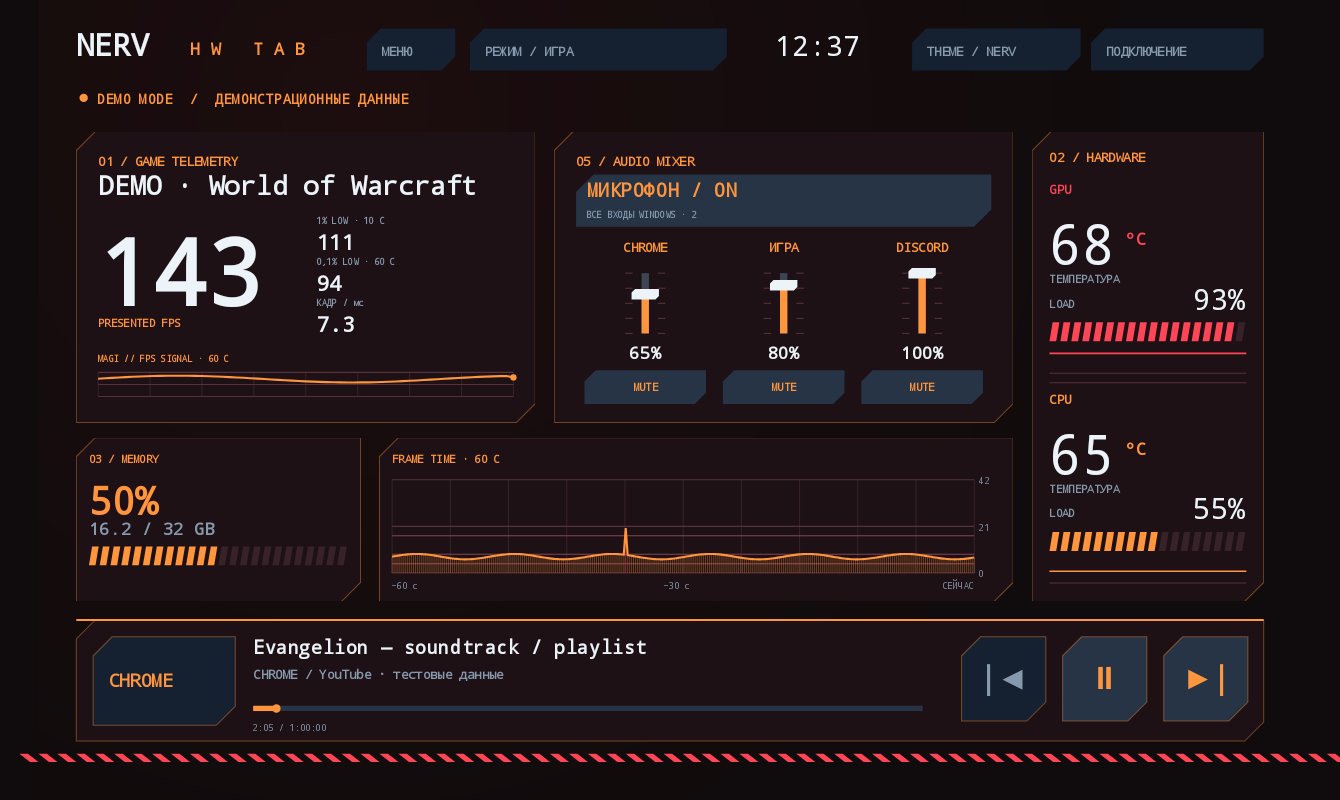
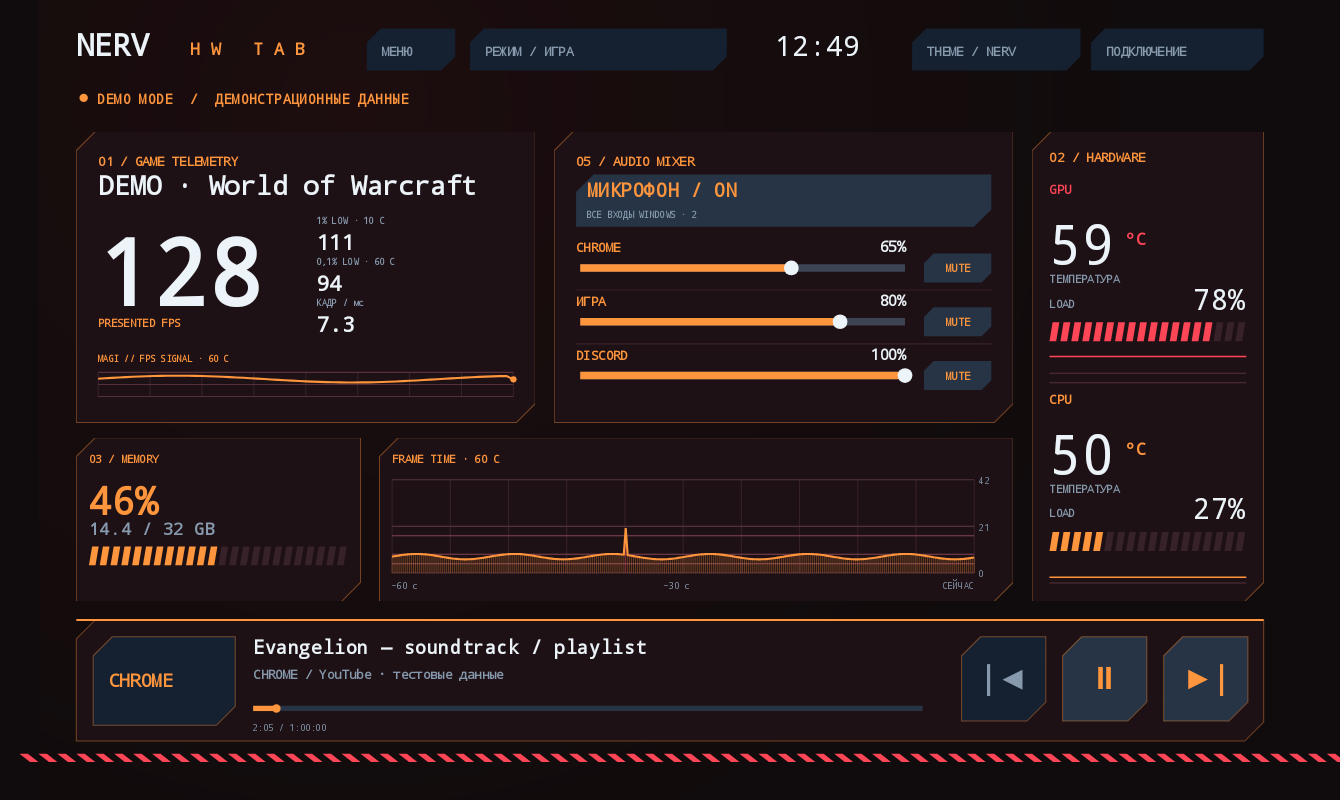
Use horizontal volume sliders in the in-game mixer
* Use horizontal app volume sliders with percentage and mute in each mixer row

* Keep app labels and percentages separated in narrow mixer cards

* Refresh verified horizontal audio mixer screenshots [skip ci]

diff --git a/android/app/src/main/java/dev/librehw/tab/DashboardView.java b/android/app/src/main/java/dev/librehw/tab/DashboardView.java
@@ -63,36 +63,38 @@ public class DashboardView extends View {
         if(!compact&&micAvailable)fit(c,"ВСЕ ВХОДЫ WINDOWS · "+mic.optInt("devices")+(audioCommandPending&&pendingAudioKey.equals("microphone")?" · КОМАНДА…":""),microphone.left+10,microphone.bottom-8,9,microphone.width()-20,muted);
         registerAudio("microphone",mic==null?"":mic.optString("id"),"mute",microphone,microphone,micAvailable,micMuted,false);
         JSONArray buses=state==null?null:state.optJSONArray("buses");String[] keys={"chrome","game","discord"},names={"CHROME","ИГРА","DISCORD"};
-        float cw=(w-pad*2)/3;
+        float rowsTop=microphone.bottom+12,rowHeight=(h-pad-rowsTop)/3;
         for(int i=0;i<3;i++) {
             JSONObject bus=null;if(buses!=null)for(int n=0;n<buses.length();n++){JSONObject item=buses.optJSONObject(n);if(item!=null&&keys[i].equals(item.optString("key"))){bus=item;break;}}
             String key=keys[i],id=bus==null?"":bus.optString("id");boolean available=ready&&bus!=null&&bus.optBoolean("available"),isMuted=bus!=null&&bus.optBoolean("muted");
             double volume=bus==null?0:bus.optDouble("volume",0);
             if(audioDrag!=null&&audioDrag.key.equals(key)&&Double.isFinite(audioPreview))volume=audioPreview;
             else if(audioCommandPending&&pendingAudioKey.equals(key)&&Double.isFinite(pendingAudioVolume))volume=pendingAudioVolume;
-            volume=Math.max(0,Math.min(1,volume));
-            float x=pad+i*cw,cx=x+cw/2;int color=!available?muted:isMuted?secondary:accent;
-            float labelY=compact?microphone.bottom+11:microphone.bottom+24;
-            centerFit(c,names[i],cx,labelY,compact?9:12,cw-8,color);
+            volume=Math.max(0,Math.min(1,volume));int color=!available?muted:isMuted?secondary:accent;
+            float top=rowsTop+i*rowHeight;String reading=available?Math.round(volume*100)+"%"+(bus.optBoolean("mixed")?"*":""):"—";
             RectF track,hit;
-            if(compact) {
-                float y=h-21;track=new RectF(x+8,y,x+cw-8,y);
-                hit=new RectF(x+3,microphone.bottom+3,x+cw-3,h-2);
-                line(c,track.left,y,track.right,y,0xFF3D4555,4);if(available)line(c,track.left,y,track.left+(float)volume*track.width(),y,color,4);
-                if(available){p.setColor(color);c.drawCircle(track.left+(float)volume*track.width(),y,4,p);}
-                centerFit(c,available?Math.round(volume*100)+"%":"—",cx,h-6,10,cw-8,available?white:muted);
+            if(rowHeight<36) {
+                float labelWidth=bounded(w*.25f,36,66),y=top+rowHeight*.53f;
+                fit(c,names[i],pad,y+3,9,labelWidth,color);
+                track=new RectF(pad+labelWidth+7,y,w-pad-34,y);
+                p.setTextAlign(Paint.Align.RIGHT);fit(c,reading,w-pad,y+3,9,31,available?white:muted);p.setTextAlign(Paint.Align.LEFT);
+                hit=new RectF(track.left-3,top,track.right+3,top+rowHeight);
             }else {
-                float top=labelY+20,bottom=Math.max(top+12,h-pad-64);track=new RectF(cx,top,cx,bottom);hit=new RectF(x+8,top-9,x+cw-8,bottom+10);
-                line(c,cx,top,cx,bottom,0xFF3D4555,7);
-                for(int tick=0;tick<=4;tick++){float y=top+(bottom-top)*tick/4;line(c,cx-19,y,cx-12,y,0xFF56313B,1);line(c,cx+12,y,cx+19,y,0xFF56313B,1);}
-                if(available){float y=bottom-(float)volume*(bottom-top);line(c,cx,y,cx,bottom,color,7);box(c,cx-13,y-5,26,10,white);}
-                centerFit(c,available?Math.round(volume*100)+"%"+(bus.optBoolean("mixed")?"*":""):"НЕТ СЕАНСА",cx,h-pad-40,available?16:9,cw-8,available?white:muted);
-                RectF mute=new RectF(x+8,h-pad-29,x+cw-8,h-pad+3);
+                float y=top+rowHeight*.53f,muteWidth=bounded(w*.15f,48,64),right=w-pad-muteWidth-18;
+                float labelRight=w<260?w-pad:right;
+                fit(c,names[i],pad,top+12,12,labelRight-pad-62,color);
+                p.setTextAlign(Paint.Align.RIGHT);fit(c,reading,labelRight,top+12,14,60,available?white:muted);p.setTextAlign(Paint.Align.LEFT);
+                track=new RectF(pad+4,y,right,y);
+                float hitHeight=Math.min(50,rowHeight*.66f);hit=new RectF(pad,Math.max(top+16,y-hitHeight/2),right+8,Math.min(top+rowHeight-2,y+hitHeight/2));
+                float bh=bounded(rowHeight*.54f,26,38);RectF mute=new RectF(w-pad-muteWidth,y-bh/2,w-pad,y+bh/2);
                 box(c,mute.left,mute.top,mute.width(),mute.height(),available?0xFF263446:0xFF152131);
-                centerFit(c,isMuted?"MUTED":"MUTE",mute.centerX(),mute.centerY()+4,10,mute.width()-10,color);
+                centerFit(c,isMuted?"MUTED":"MUTE",mute.centerX(),mute.centerY()+4,10,mute.width()-8,color);
                 registerAudio(key,id,"mute",mute,mute,available,isMuted,false);
+                if(i<2)line(c,pad,top+rowHeight-3,w-pad,top+rowHeight-3,0xFF38222A,1);
             }
-            registerAudio(key,id,"volume",hit,track,available,isMuted,!compact);
+            line(c,track.left,track.top,track.right,track.top,0xFF3D4555,rowHeight<36?4:7);
+            if(available){float x=track.left+(float)volume*track.width();line(c,track.left,track.top,x,track.top,color,rowHeight<36?4:7);p.setColor(white);c.drawCircle(x,track.top,rowHeight<36?3:7,p);}
+            registerAudio(key,id,"volume",hit,track,available,isMuted,false);
         }
         if(audioCommandPending){float x=pad+(animations?(android.os.SystemClock.elapsedRealtime()%1000)/1000f*(w-pad*2-30):0);line(c,x,h-3,x+30,h-3,accent,2);if(animations)postInvalidateOnAnimation();}
     }

diff --git a/android/app/src/test/java/dev/librehw/tab/AudioPanelTest.java b/android/app/src/test/java/dev/librehw/tab/AudioPanelTest.java
@@ -27,10 +27,11 @@ public class AudioPanelTest {
     @Test public void FaderPreviewsLocallyAndSendsOnceOnReleaseWithOriginalSessionIdentity() throws Exception {
         MediaPanelTest.FeedbackView view=view();render(view,"audio-before-drag");DashboardView.AudioControl chrome=view.audioControls.get("chrome.volume");
         int[] count={0};String[] key={""},id={""},action={""};double[] value={-1};view.onAudio=(k,i,a,v)->{count[0]++;key[0]=k;id[0]=i;action[0]=a;value[0]=v;};
-        float x=chrome.track.centerX(),start=chrome.track.centerY(),quarter=chrome.track.bottom-chrome.track.height()*.25f;
-        touch(view,0,x,start);touch(view,2,x,quarter);assertEquals(0,count[0]);assertEquals(1,view.haptics);render(view,"audio-drag-preview");
+        assertFalse(chrome.vertical);assertTrue(chrome.track.width()>250);
+        float x=chrome.track.centerX(),start=chrome.track.centerY(),quarter=chrome.track.left+chrome.track.width()*.25f;
+        touch(view,0,x,start);touch(view,2,quarter,start);assertEquals(0,count[0]);assertEquals(1,view.haptics);render(view,"audio-drag-preview");
         JSONObject changed=DemoData.sample();changed.getJSONObject("audio").getJSONArray("buses").getJSONObject(0).put("id","new-session");view.accept(changed,"",true);render(view,"audio-session-changed");
-        touch(view,1,x,quarter);assertEquals(1,count[0]);assertEquals("chrome",key[0]);assertEquals("volume",action[0]);assertEquals("demo-chrome",id[0]);assertEquals(.25,value[0],.001);
+        touch(view,1,quarter,start);assertEquals(1,count[0]);assertEquals("chrome",key[0]);assertEquals("volume",action[0]);assertEquals("demo-chrome",id[0]);assertEquals(.25,value[0],.001);
         chrome=view.audioControls.get("chrome.volume");touch(view,0,chrome.track.centerX(),chrome.track.centerY());touch(view,3,chrome.track.centerX(),chrome.track.centerY());assertEquals(1,count[0]);
     }
     @Test public void MicrophoneUsesConfirmedStateAndUnavailableAppsAreNotClickable() throws Exception {

diff --git a/README.md b/README.md
@@ -144,3 +144,5 @@ NERV: диагональные сегменты CPU/GPU/RAM, крупный пр
 Жест фейдера показывает предварительное значение локально и отправляет один запрос после отпускания; мут отображается по фактическому подтверждённому состоянию Windows. Запросы защищены ключом, ограничены тремя группами/микрофоном, проверяют ID текущих сеансов/устройств и диапазон 0…100%. Недоступные/устаревшие цели отклоняются. Состояние обновляется раз в 500 мс, изменения в Windows видны на планшете. Нужно обновить APK и Windows-пакет через Install.cmd.
 
 Макет обновлён до версии 2. Обзор/скрытые показатели сохраняются; старые нестандартные игровые координаты, пересекающие новый микшер, сбрасываются только для игрового режима. Исходный JSON старого макета сохраняется локально в `layout_before_audio`. Новый микшер можно переместить/изменить размер/скрыть в редакторе игры.
+
+В 1.9.1 микшер использует три горизонтальные строки: приложение, длинный ползунок, процент и mute справа. В очень низких карточках остаются компактные горизонтальные шкалы; кнопка микрофона расположена сверху. Для перехода с 1.9 нужен только APK, Windows-агент не менялся.
